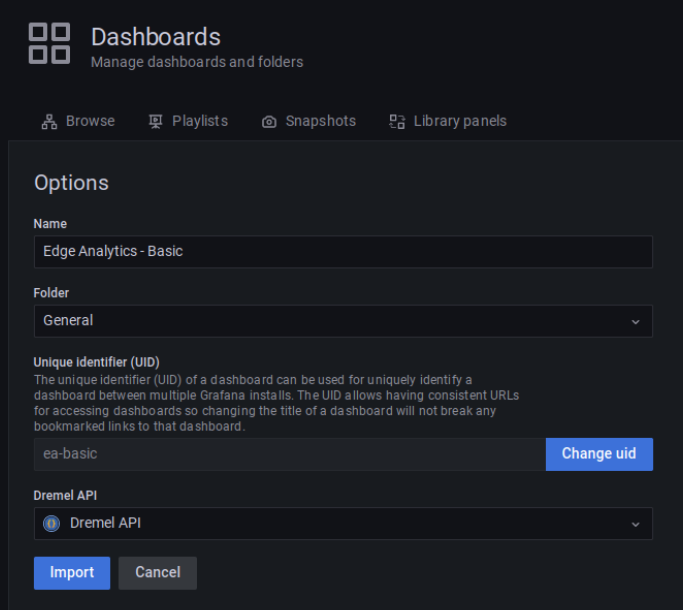
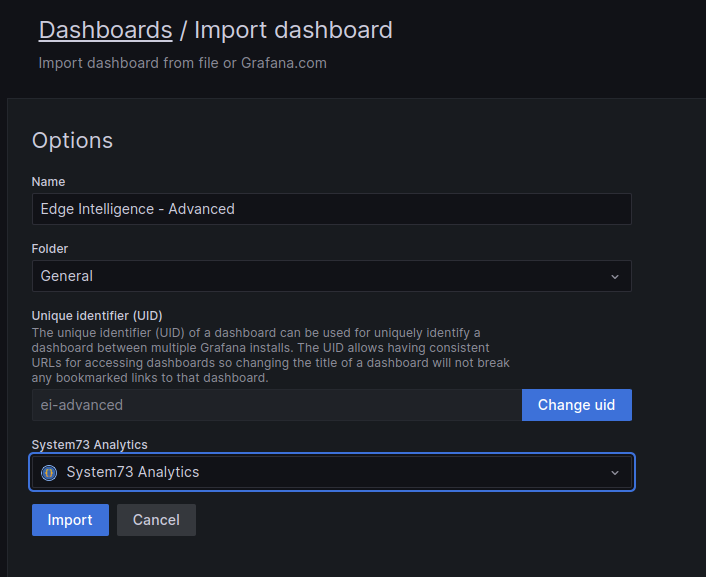
refactor(docs): Update datasource naming

diff --git a/docs/index.md b/docs/index.md
@@ -58,7 +58,7 @@ To install the plugin from the UI you just have to (other installation methods d
 4. Click on the *Create a JSON API* data source button.
 ![Create datasource](./images/create-datasource.png)
 5. Configure the data source with the following values:
-   1. Name: Dremel API
+   1. Name: System73 Analytics
    2. URL: [https://api.system73.com/analytics](https://api.system73.com/analytics)
    3. Add a header on *Custom HTTP Headers* with the following:
       1. Header: `Authorization`
@@ -82,13 +82,15 @@ using a container without specific host-mounted volumes it is better to simply c
 ![Import via JSON](./images/dashboard-load.png)
 3. Click on the *Load button*
 4. You can choose the dashboard uid, tittle, folder as you want but make sure to select the
-*Dremel API* as the dashboard datasource in the drop-down menu.
-![Dremel API datasource](./images/dashboard-datasource.png)
+*System73 Analytics* as the dashboard datasource in the drop-down menu.
+![System73 Analytics datasource](./images/dashboard-datasource.png)
 
 5. Click on the *Import* button
 6. After that you just need to select the correct region and the Edge Intelligence Id that you have
 been assigned.
 ![Edge Analytics customer id](./images/analytics-id.png)
+7. Success!
+![Edge Analytics dashboard](./images/analytics-dashboard.png)
 
 [grafana-install-docs]: https://grafana.com/docs/grafana/latest/?pg=oss-graf&plcmt=quick-links#installing-grafana
 [grafana-json-datasource]: https://grafana.github.io/grafana-json-datasource/
